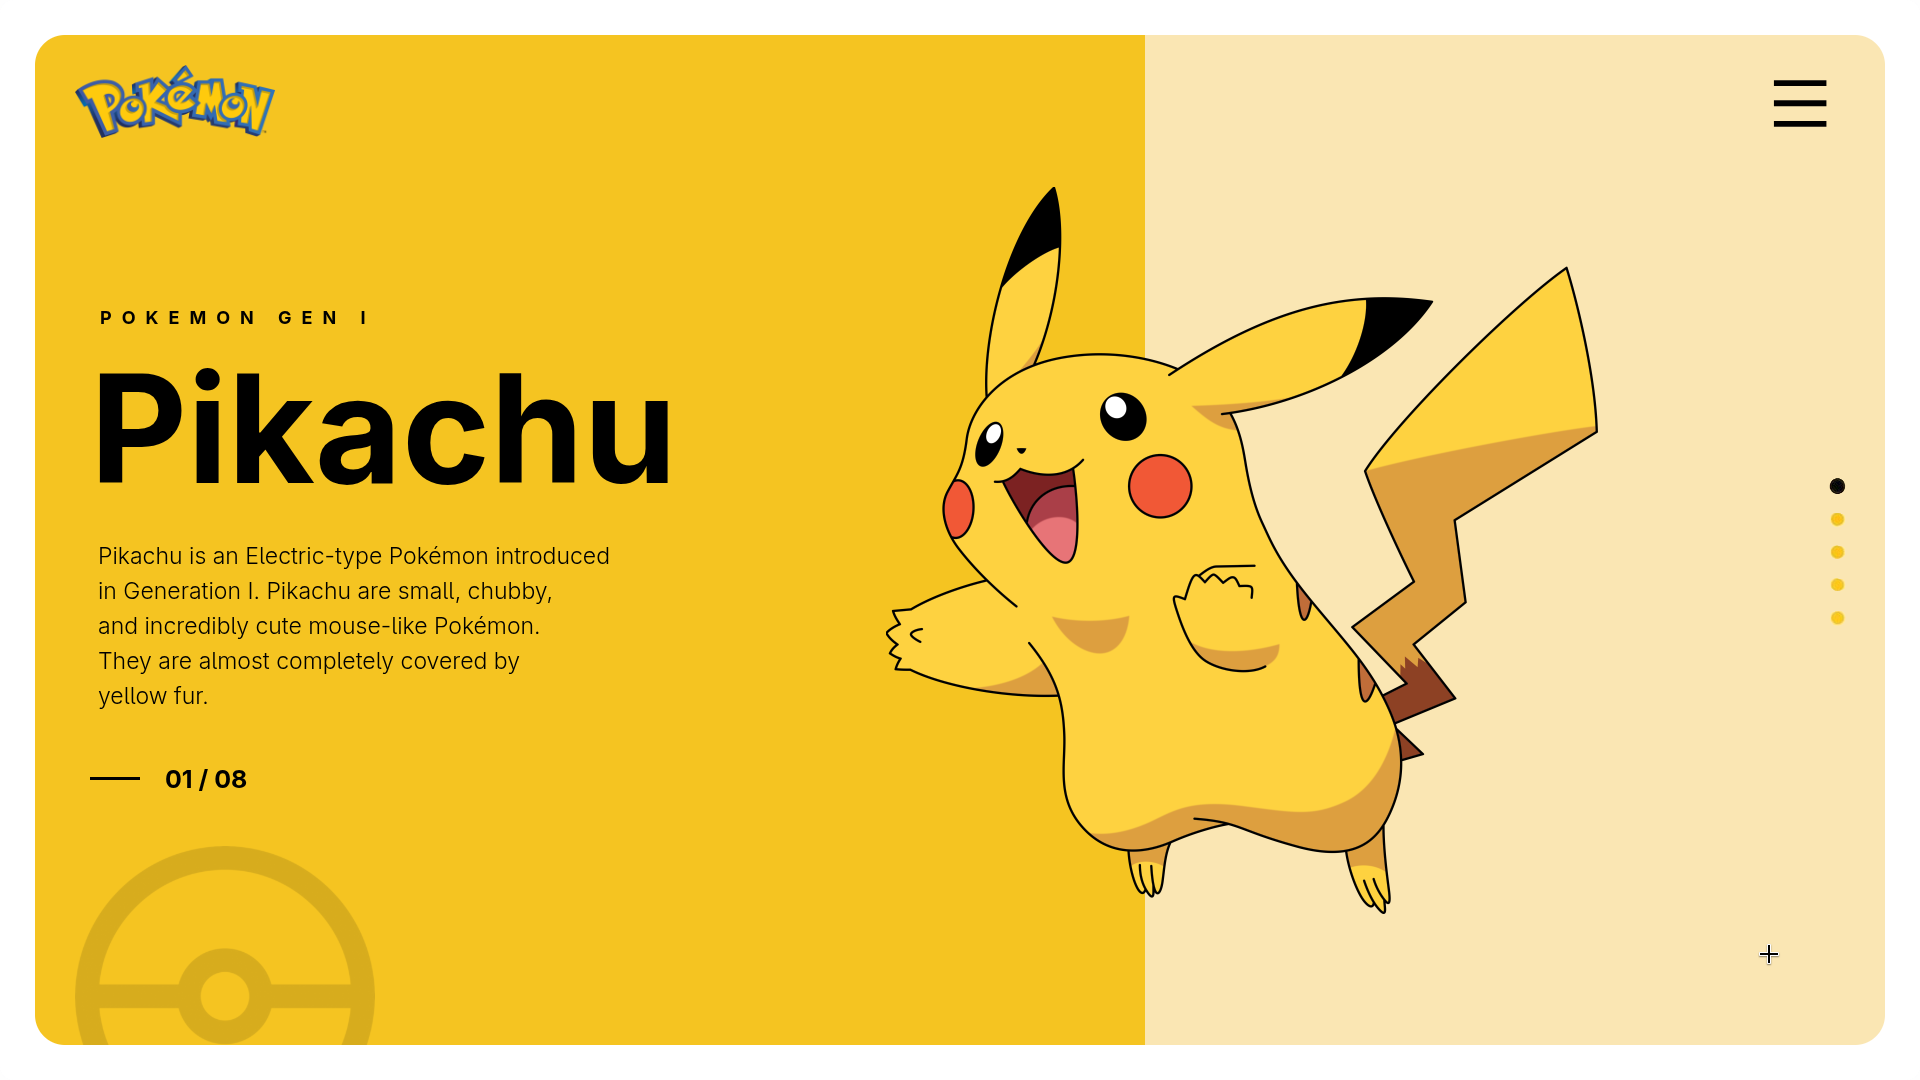
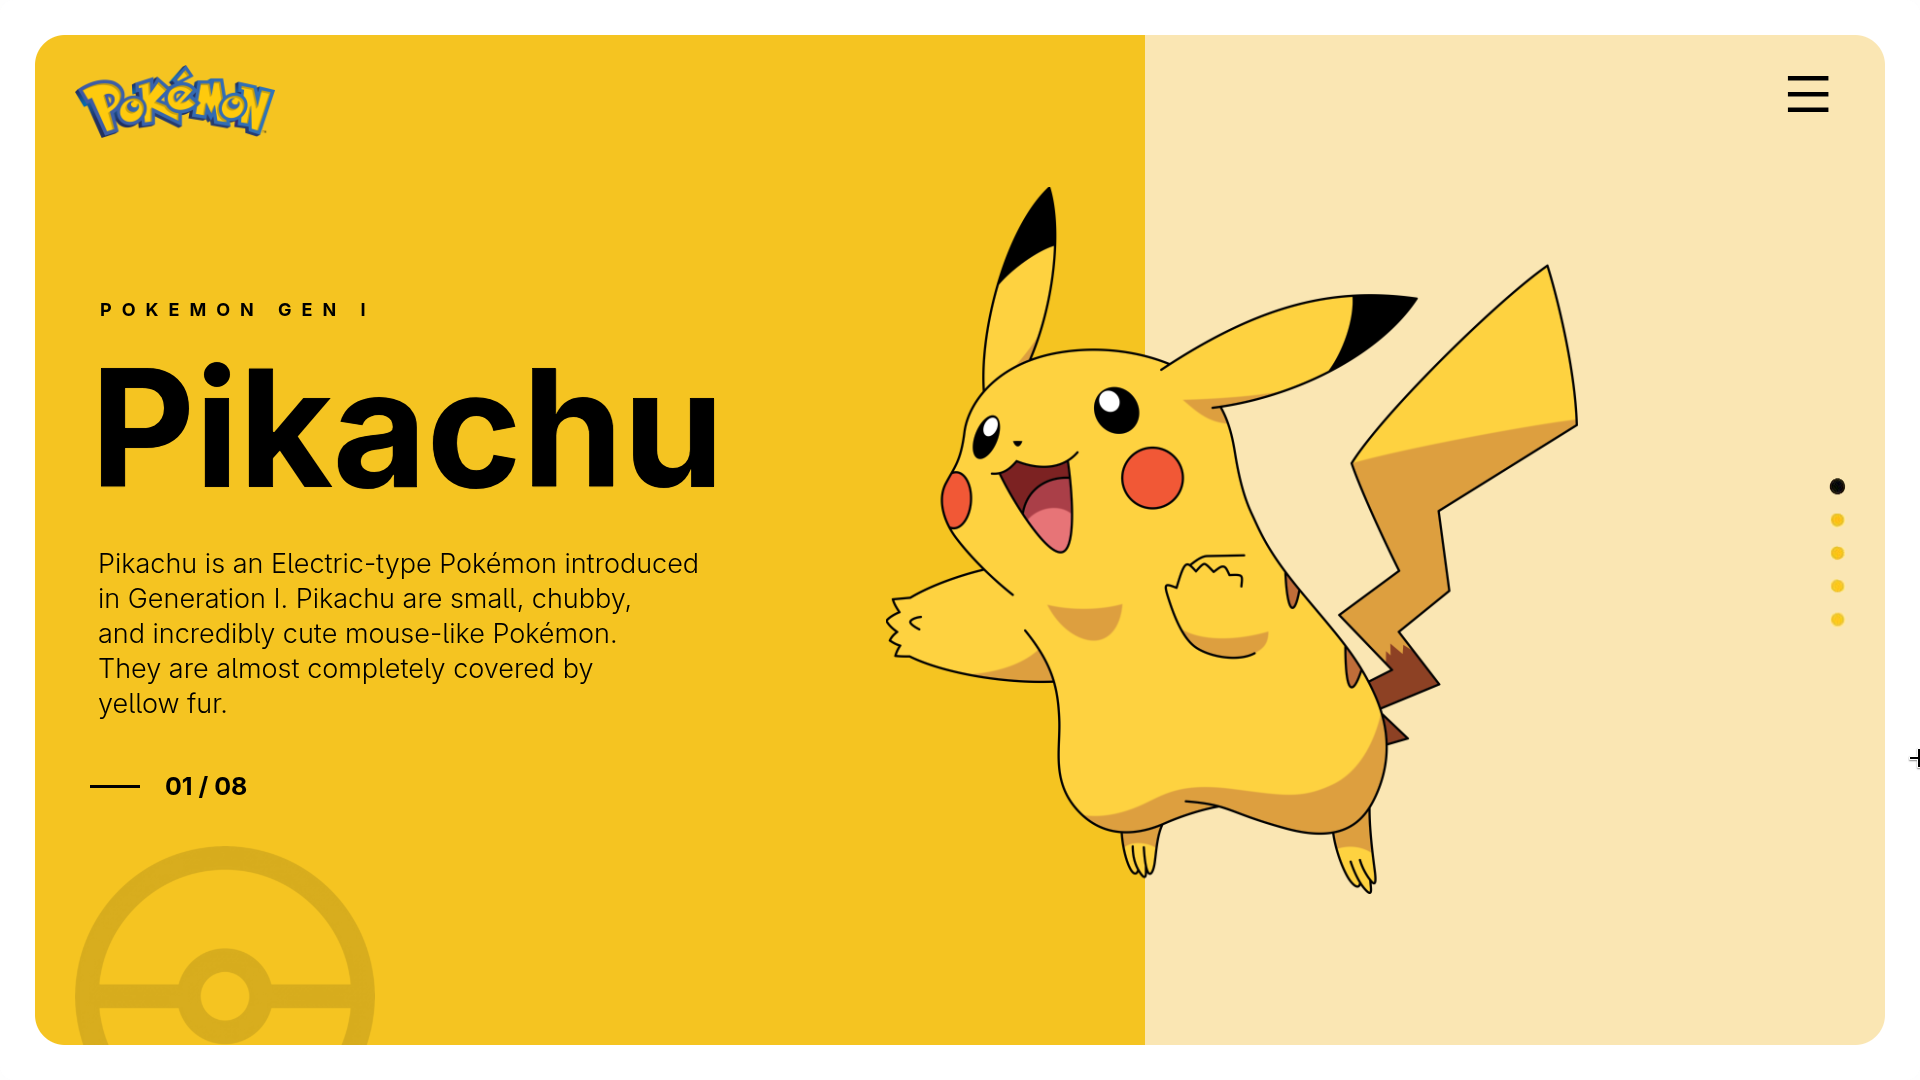
completed

diff --git a/Task 1/style.css b/Task 1/style.css
@@ -42,7 +42,7 @@ body {
     margin-left: 15px;
 }
 .left h1 {
-    font-size: 150px;
+    font-size: 15vh;
 }
 .left h2 {
     letter-spacing: 10px;
@@ -58,7 +58,7 @@ body {
     margin-top: 20px;
     margin-bottom: 50px;
     margin-left: 8px;
-    font-size: 23px;
+    font-size: 2.5vh;
     font-weight: 300;
     line-height: 35px;
 }
@@ -84,16 +84,18 @@ body {
     position: absolute;
     bottom: 0;
     opacity: 12%;
+
 }
 
 #Pikachu {
     position: absolute;
     top: 15%;
     left: 46%;
+    height: 70%;
 }
 
 .right i{
-    font-size: 70px;
+    font-size: 5vh;
     position: absolute;
     top: 30px;
     right: 50px;
@@ -102,4 +104,5 @@ body {
     position :absolute;
     right: 20px;
     top: 420px;
+    height: 20%;
 }

diff --git a/Task 1/index.html b/Task 1/index.html
@@ -28,7 +28,7 @@
                     <h3>01 / 08</h3>
                 </div>
             </div>
-            <img id="pokeball" src="PokeBall.png" alt="">
+            <img id="pokeball" src="PokeBall.webp" alt="">
         </div>
         <div class="right">
             <i class="ri-menu-fill"></i>
